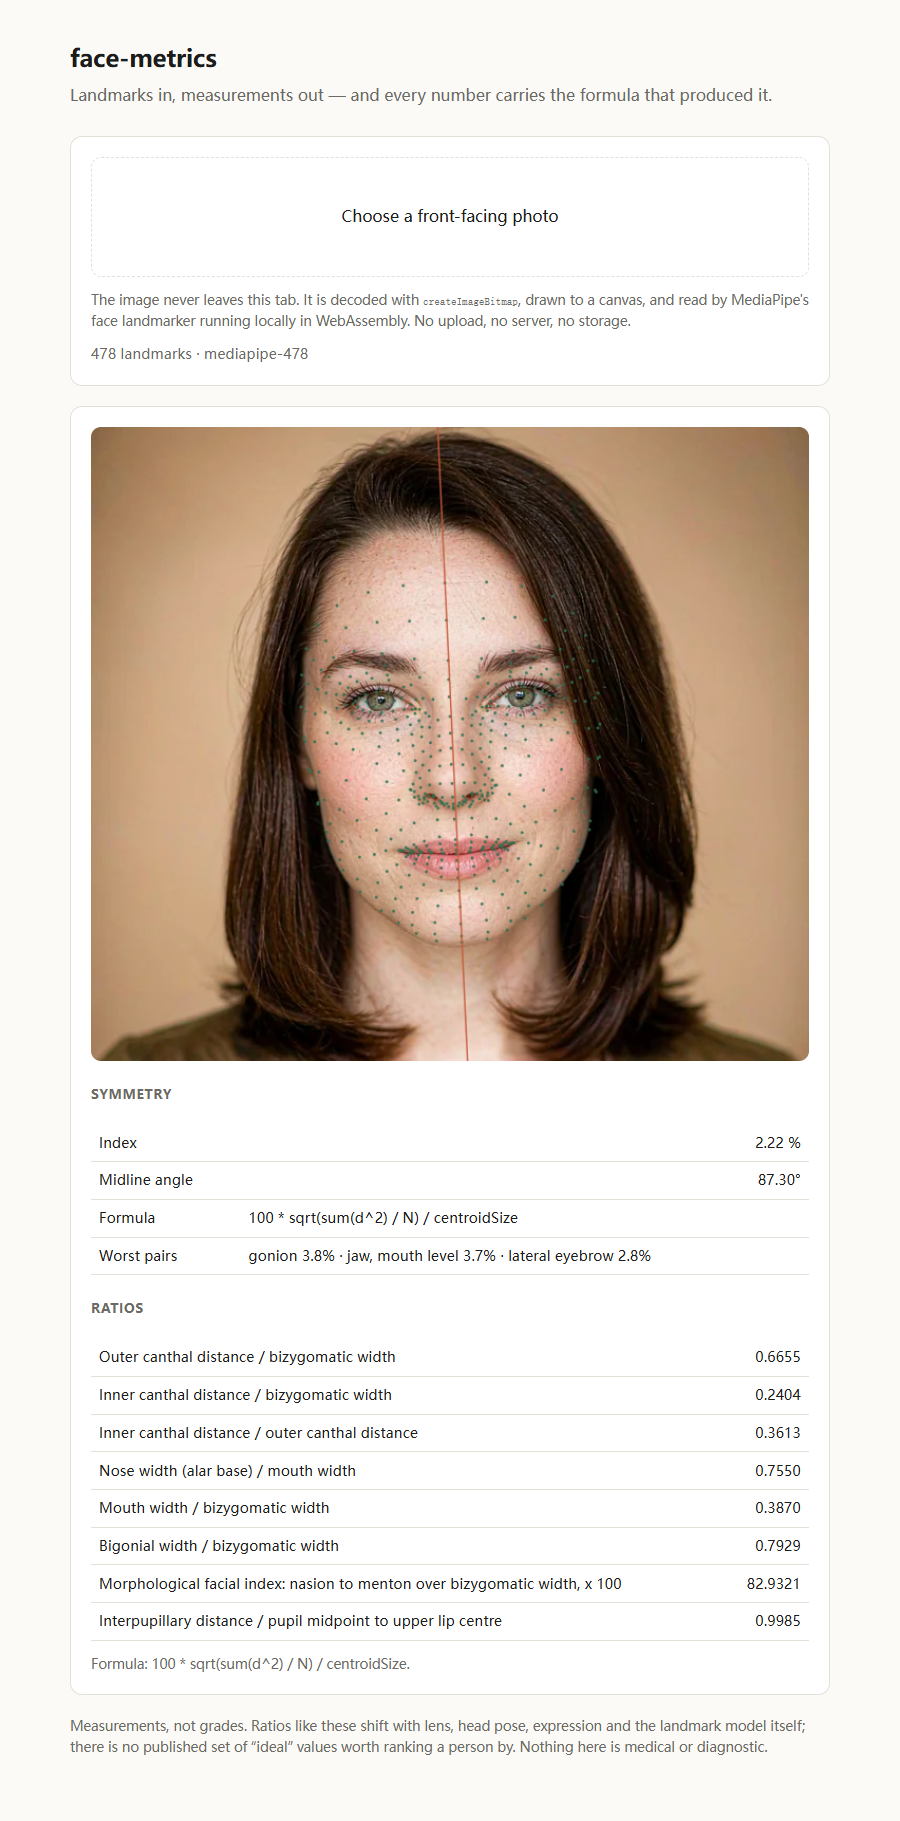
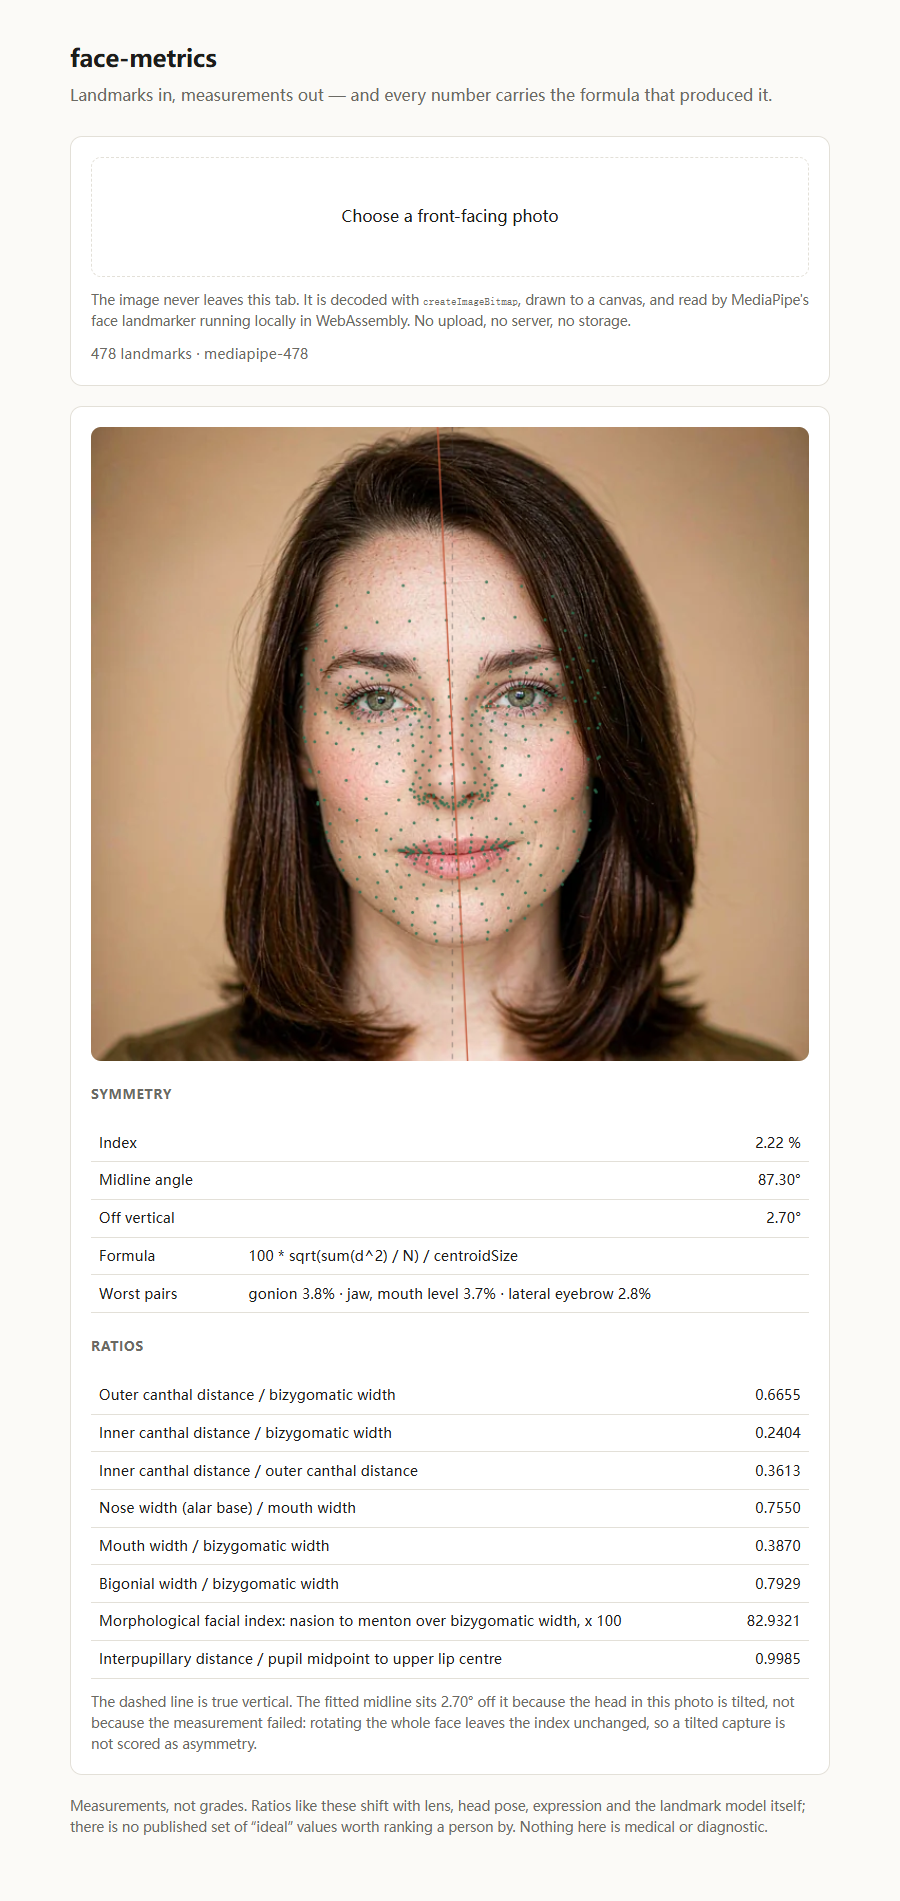
Draw the true vertical beside the fitted midline and report the tilt

diff --git a/examples/browser/index.html b/examples/browser/index.html
@@ -186,10 +186,14 @@
       }
 
       function render(report, points, scale) {
+        const axisDegrees = report.symmetry.axis.angleDegrees;
+        const tilt = Math.abs(90 - axisDegrees);
+
         const symmetry = document.getElementById('symmetry');
         symmetry.replaceChildren(
           row(['Index', `${report.symmetry.index.toFixed(2)} %`], { numeric: true }),
-          row(['Midline angle', `${report.symmetry.axis.angleDegrees.toFixed(2)}°`], { numeric: true }),
+          row(['Midline angle', `${axisDegrees.toFixed(2)}°`], { numeric: true }),
+          row(['Off vertical', `${tilt.toFixed(2)}°`], { numeric: true }),
           row(['Formula', report.symmetry.formula]),
         );
 
@@ -209,6 +213,13 @@
         );
 
         const notes = [];
+        if (tilt >= 0.5) {
+          notes.push(
+            `The dashed line is true vertical. The fitted midline sits ${tilt.toFixed(2)}° off it because ` +
+              'the head in this photo is tilted, not because the measurement failed: rotating the whole ' +
+              'face leaves the index unchanged, so a tilted capture is not scored as asymmetry.',
+          );
+        }
         if (report.ratios.unavailable.length) {
           notes.push(
             `Not available: ${report.ratios.unavailable.map((item) => `${item.key} (${item.reason})`).join('; ')}.`,
@@ -224,6 +235,20 @@
           context.arc(x * scale, y * scale, 1.4, 0, Math.PI * 2);
           context.fill();
         }
+
+        // True vertical through the same centroid, so the fitted midline's lean
+        // reads as a measurement against a reference instead of as a drawing
+        // error. When the head is level the two lines sit on top of each other.
+        const { x: axisX, y: axisY } = report.symmetry.axis;
+        context.save();
+        context.setLineDash([5, 6]);
+        context.lineWidth = 1;
+        context.strokeStyle = 'rgba(50, 50, 50, 0.45)';
+        context.beginPath();
+        context.moveTo(axisX * scale, (axisY - size) * scale);
+        context.lineTo(axisX * scale, (axisY + size) * scale);
+        context.stroke();
+        context.restore();
 
         const [start, end] = axisSegment(report.symmetry, size);
         context.strokeStyle = 'rgba(196, 90, 60, 0.9)';

diff --git a/README.md b/README.md
@@ -4,7 +4,7 @@ Facial geometry from landmark sets — a mirror-symmetry index and anthropometri
 
 Zero dependencies. Plain ES modules. Runs in Node 18+ and in the browser with no build step.
 
-![The bundled browser demo: MediaPipe landmarks drawn on a portrait, the fitted midline in red, and the results table underneath](docs/demo.png)
+![The bundled browser demo: MediaPipe landmarks drawn on a portrait, the fitted midline in red, the true vertical it is measured against as a dashed line, and the results table underneath](docs/demo.png)
 
 ```
 $ node bin/face-metrics.mjs landmarks.json
@@ -81,7 +81,7 @@ In the browser, the same call, no bundler:
 </script>
 ```
 
-A complete browser demo that runs MediaPipe on a local photo, draws the landmarks and the fitted midline, and prints the table is in [`examples/browser/index.html`](examples/browser/index.html). The photo never leaves the tab. The 3.6 MB face landmarker model is bundled in [`models/`](models/) and served either from jsDelivr or from that path — never from Google's storage, which is unreachable on some networks.
+A complete browser demo that runs MediaPipe on a local photo, draws the landmarks and the fitted midline (against a dashed true vertical, so a tilted capture is visible as a tilt rather than as a crooked drawing), and prints the table is in [`examples/browser/index.html`](examples/browser/index.html). The photo never leaves the tab. The 3.6 MB face landmarker model is bundled in [`models/`](models/) and served either from jsDelivr or from that path — never from Google's storage, which is unreachable on some networks.
 
 ```bash
 node examples/node-quickstart.mjs    # 20 lines, no dependencies
